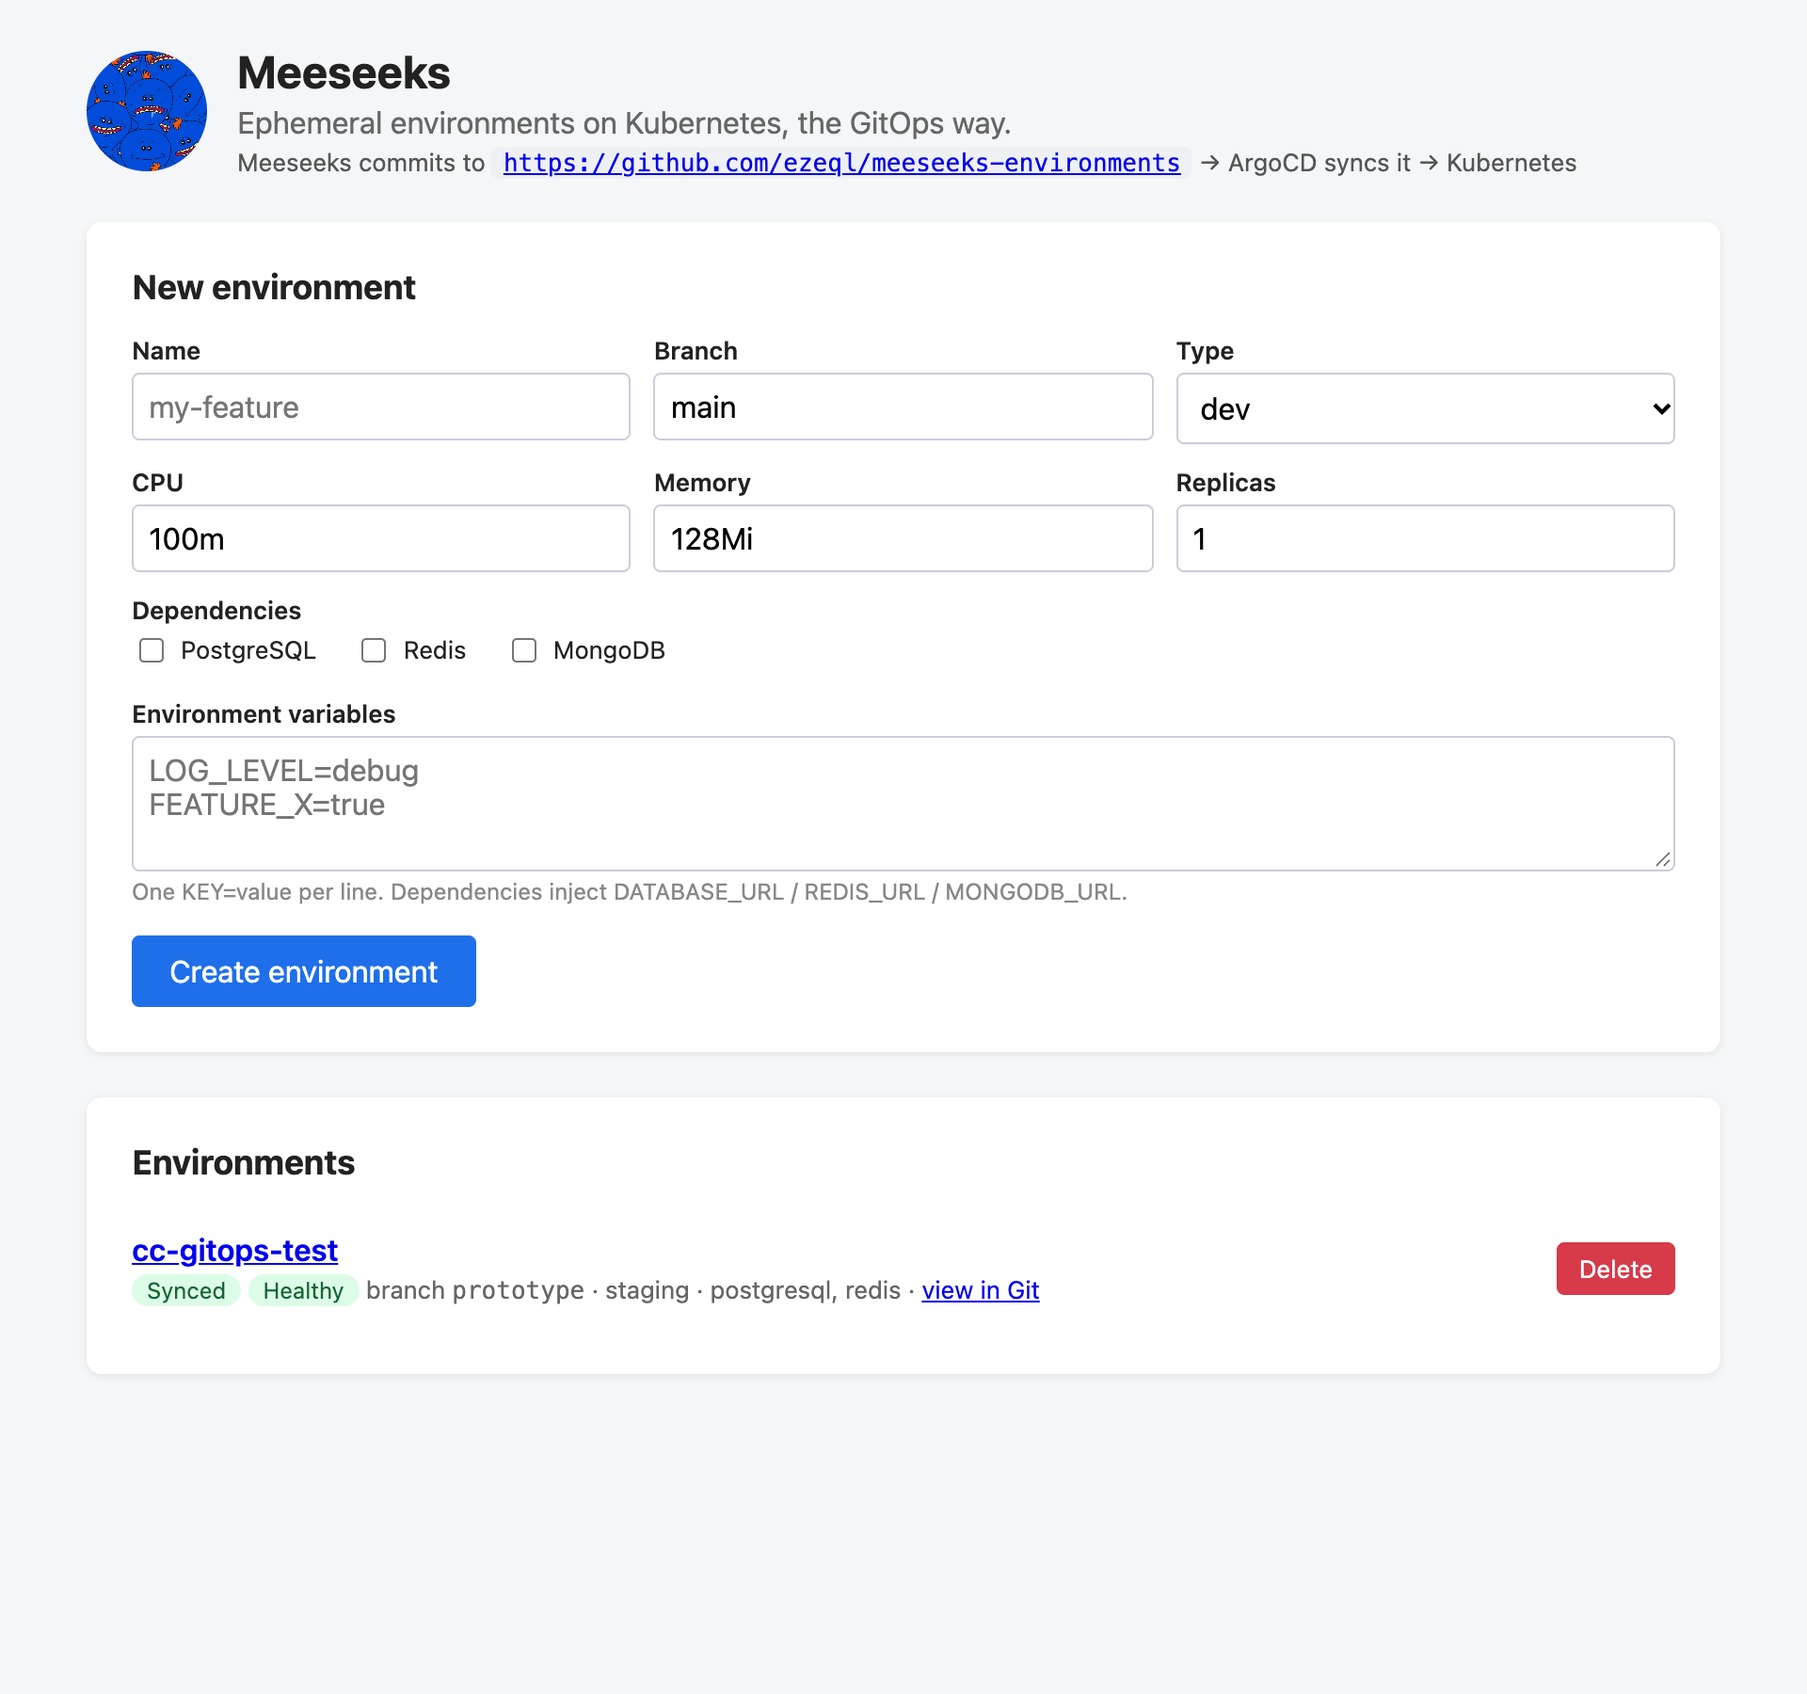
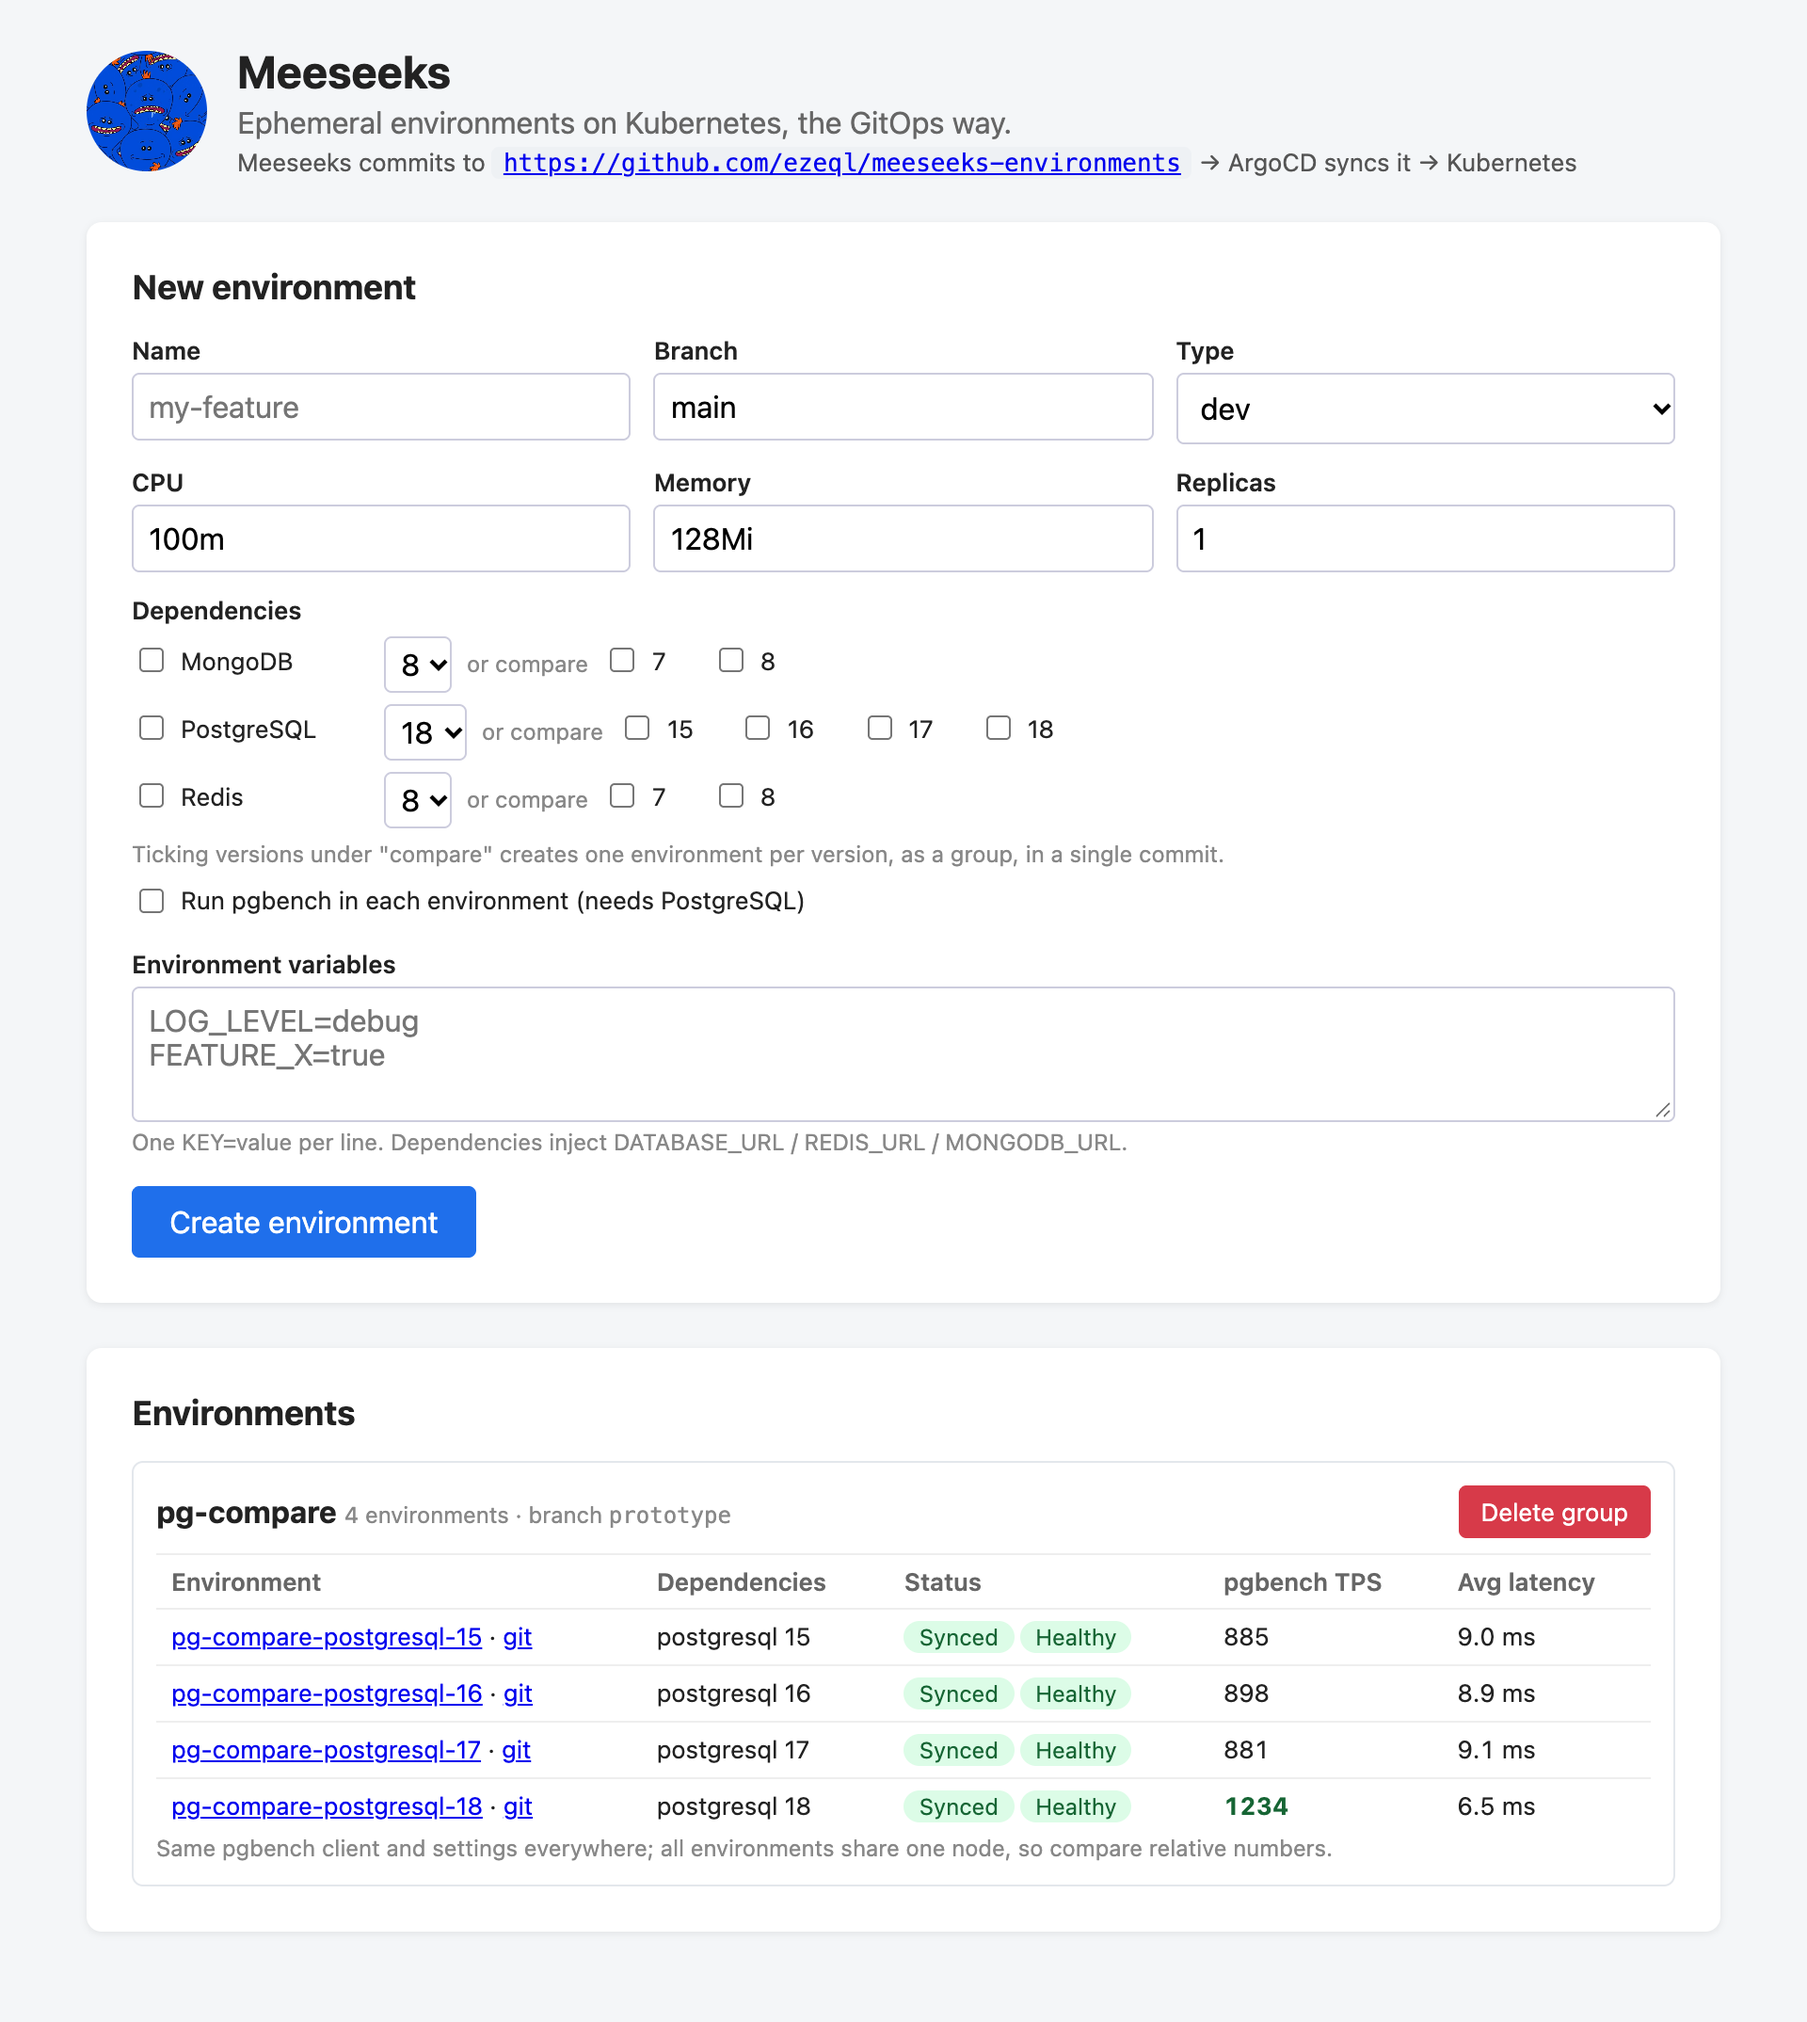
README: matrix groups, pgbench, Argo CD v3.6.1; new screenshot

diff --git a/README.md b/README.md
@@ -34,6 +34,18 @@ What a request turns into, inside each committed `Application`:
 | `env_vars` | Env vars in the same patch |
 | `dependencies` | One extra source per dependency, plus `DATABASE_URL` / `REDIS_URL` / `MONGODB_URL` injected into the app |
 | `env_type` | `env-type` label (`dev`, `staging`, `prod`) |
+| `versions` | Kustomize image override per dependency (PostgreSQL 15–18, Redis 7–8, MongoDB 7–8) |
+| `matrix` | One environment per combination, as a group under `environments/<group>/`, in **one commit** |
+| `benchmark` | A pgbench Job per environment; results read from its logs through Argo CD and compared per group |
+
+Example: compare PostgreSQL versions on the same branch (shown in the screenshot):
+
+```bash
+curl -X POST localhost:22282/environments -H 'Content-Type: application/json' -d '{
+  "name": "pg-compare", "branch": "main", "benchmark": true,
+  "matrix": {"postgresql": ["15", "16", "17", "18"]}
+}'
+```
 
 ### Design notes
 
@@ -50,10 +62,11 @@ What a request turns into, inside each committed `Application`:
 
 ## Run it locally (OrbStack)
 
-Requirements: [OrbStack](https://orbstack.dev) with Kubernetes, Terraform, the `argocd` and `gh` CLIs, Go 1.24+.
+Requirements: [OrbStack](https://orbstack.dev) with Kubernetes, OpenTofu or Terraform, the `argocd` and `gh` CLIs, Go 1.24+.
+Argo CD v3.6.1 (Helm chart 10.18.0) is installed by `terraform/`.
 
 ```bash
-cd terraform && terraform init && terraform apply   # ArgoCD on :30080, writes argocd-token.txt
+cd terraform && tofu init && tofu apply         # ArgoCD on :30080, writes argocd-token.txt
 cd .. && make run                                   # http://localhost:22282
 ```
 
